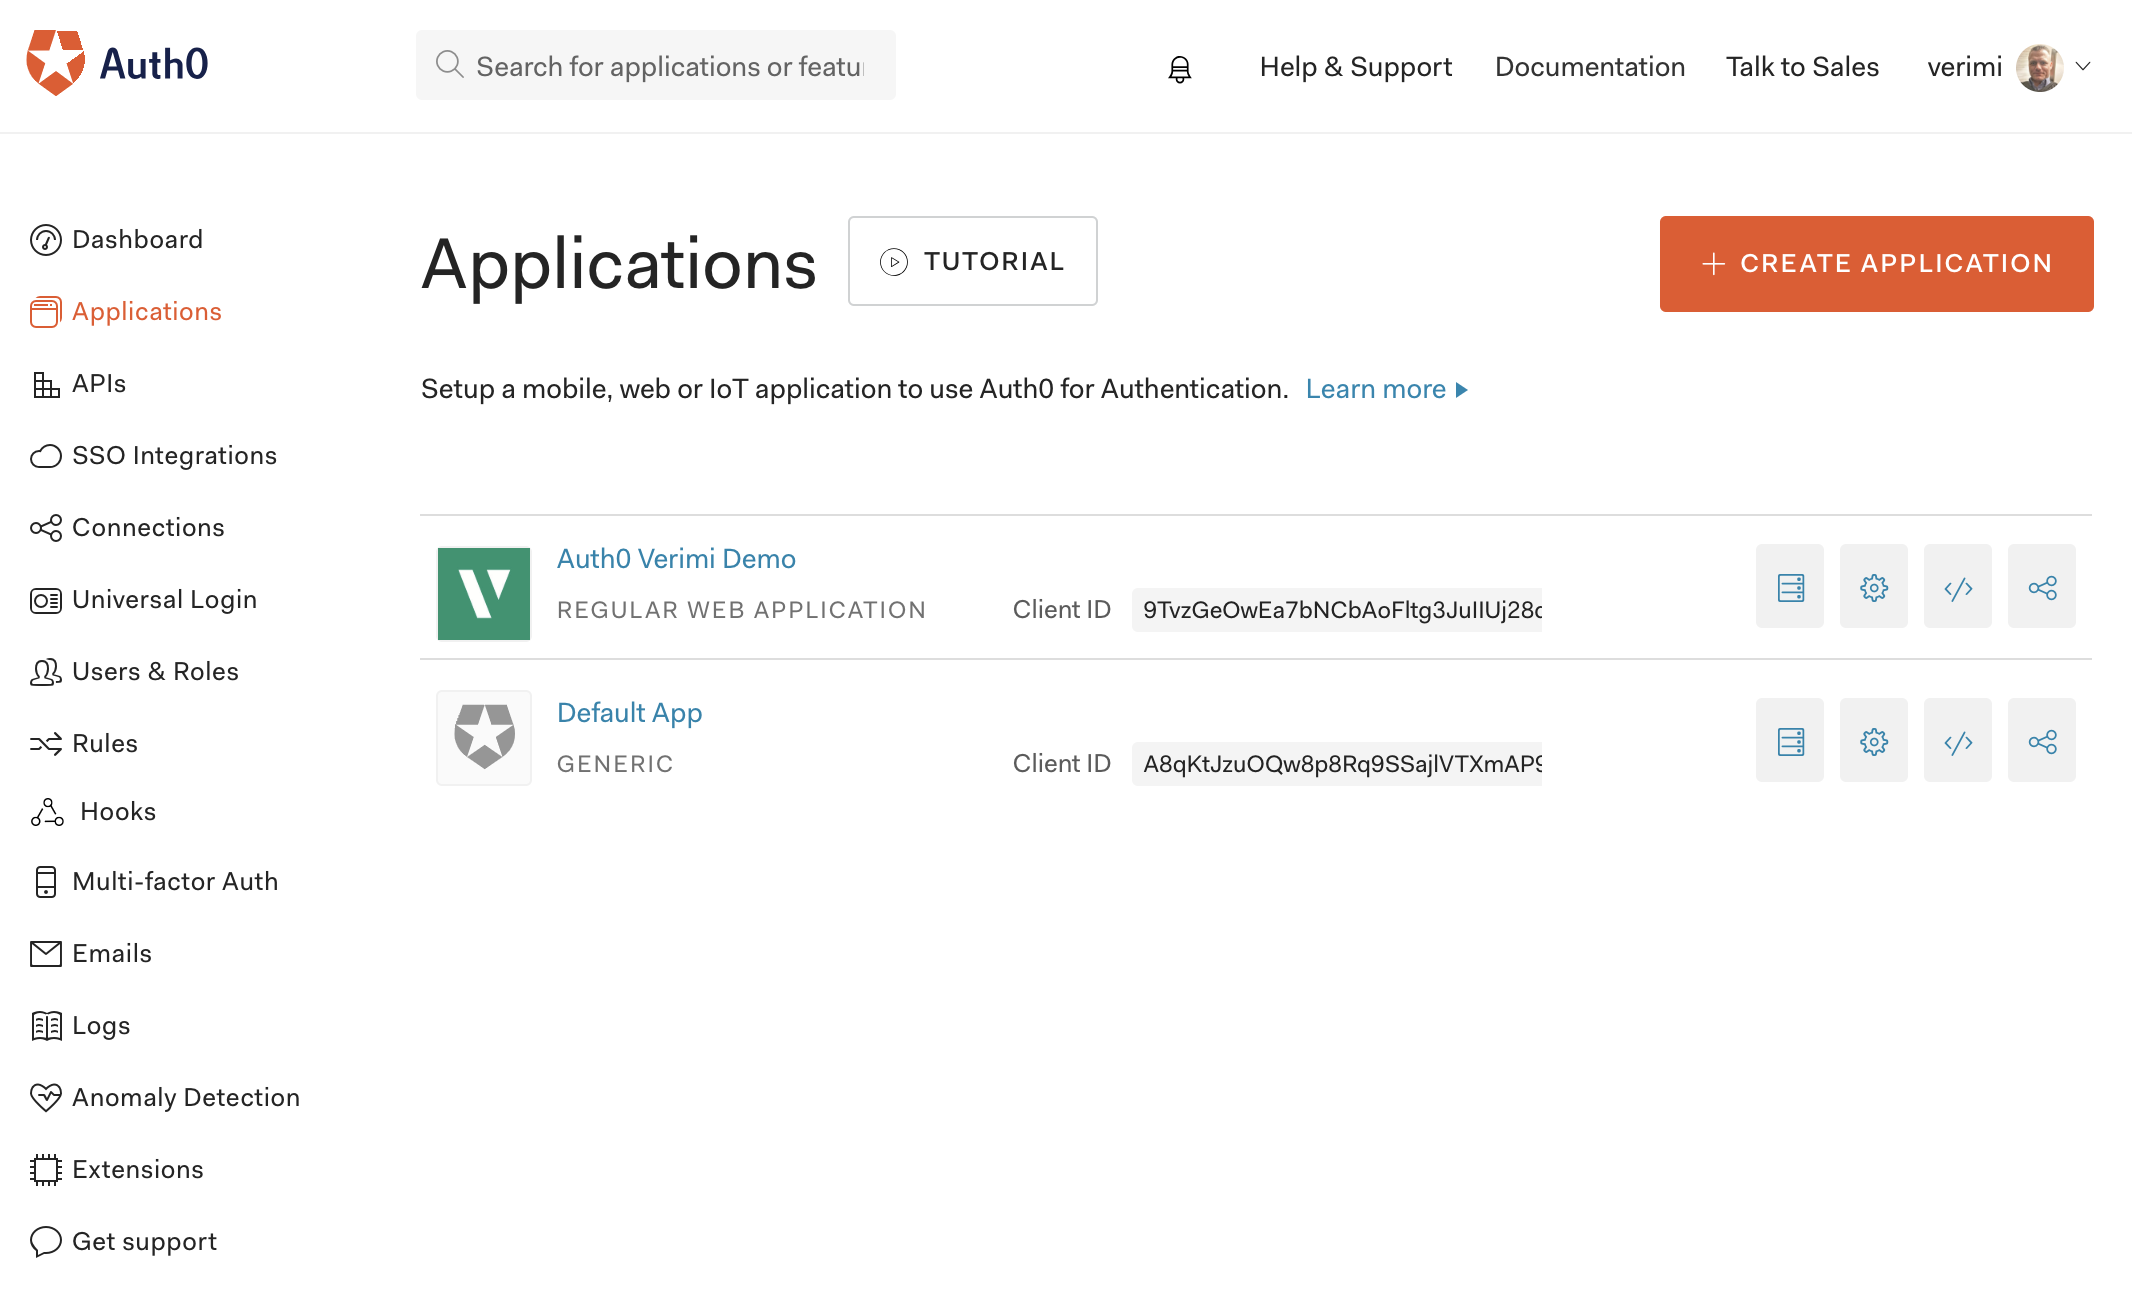
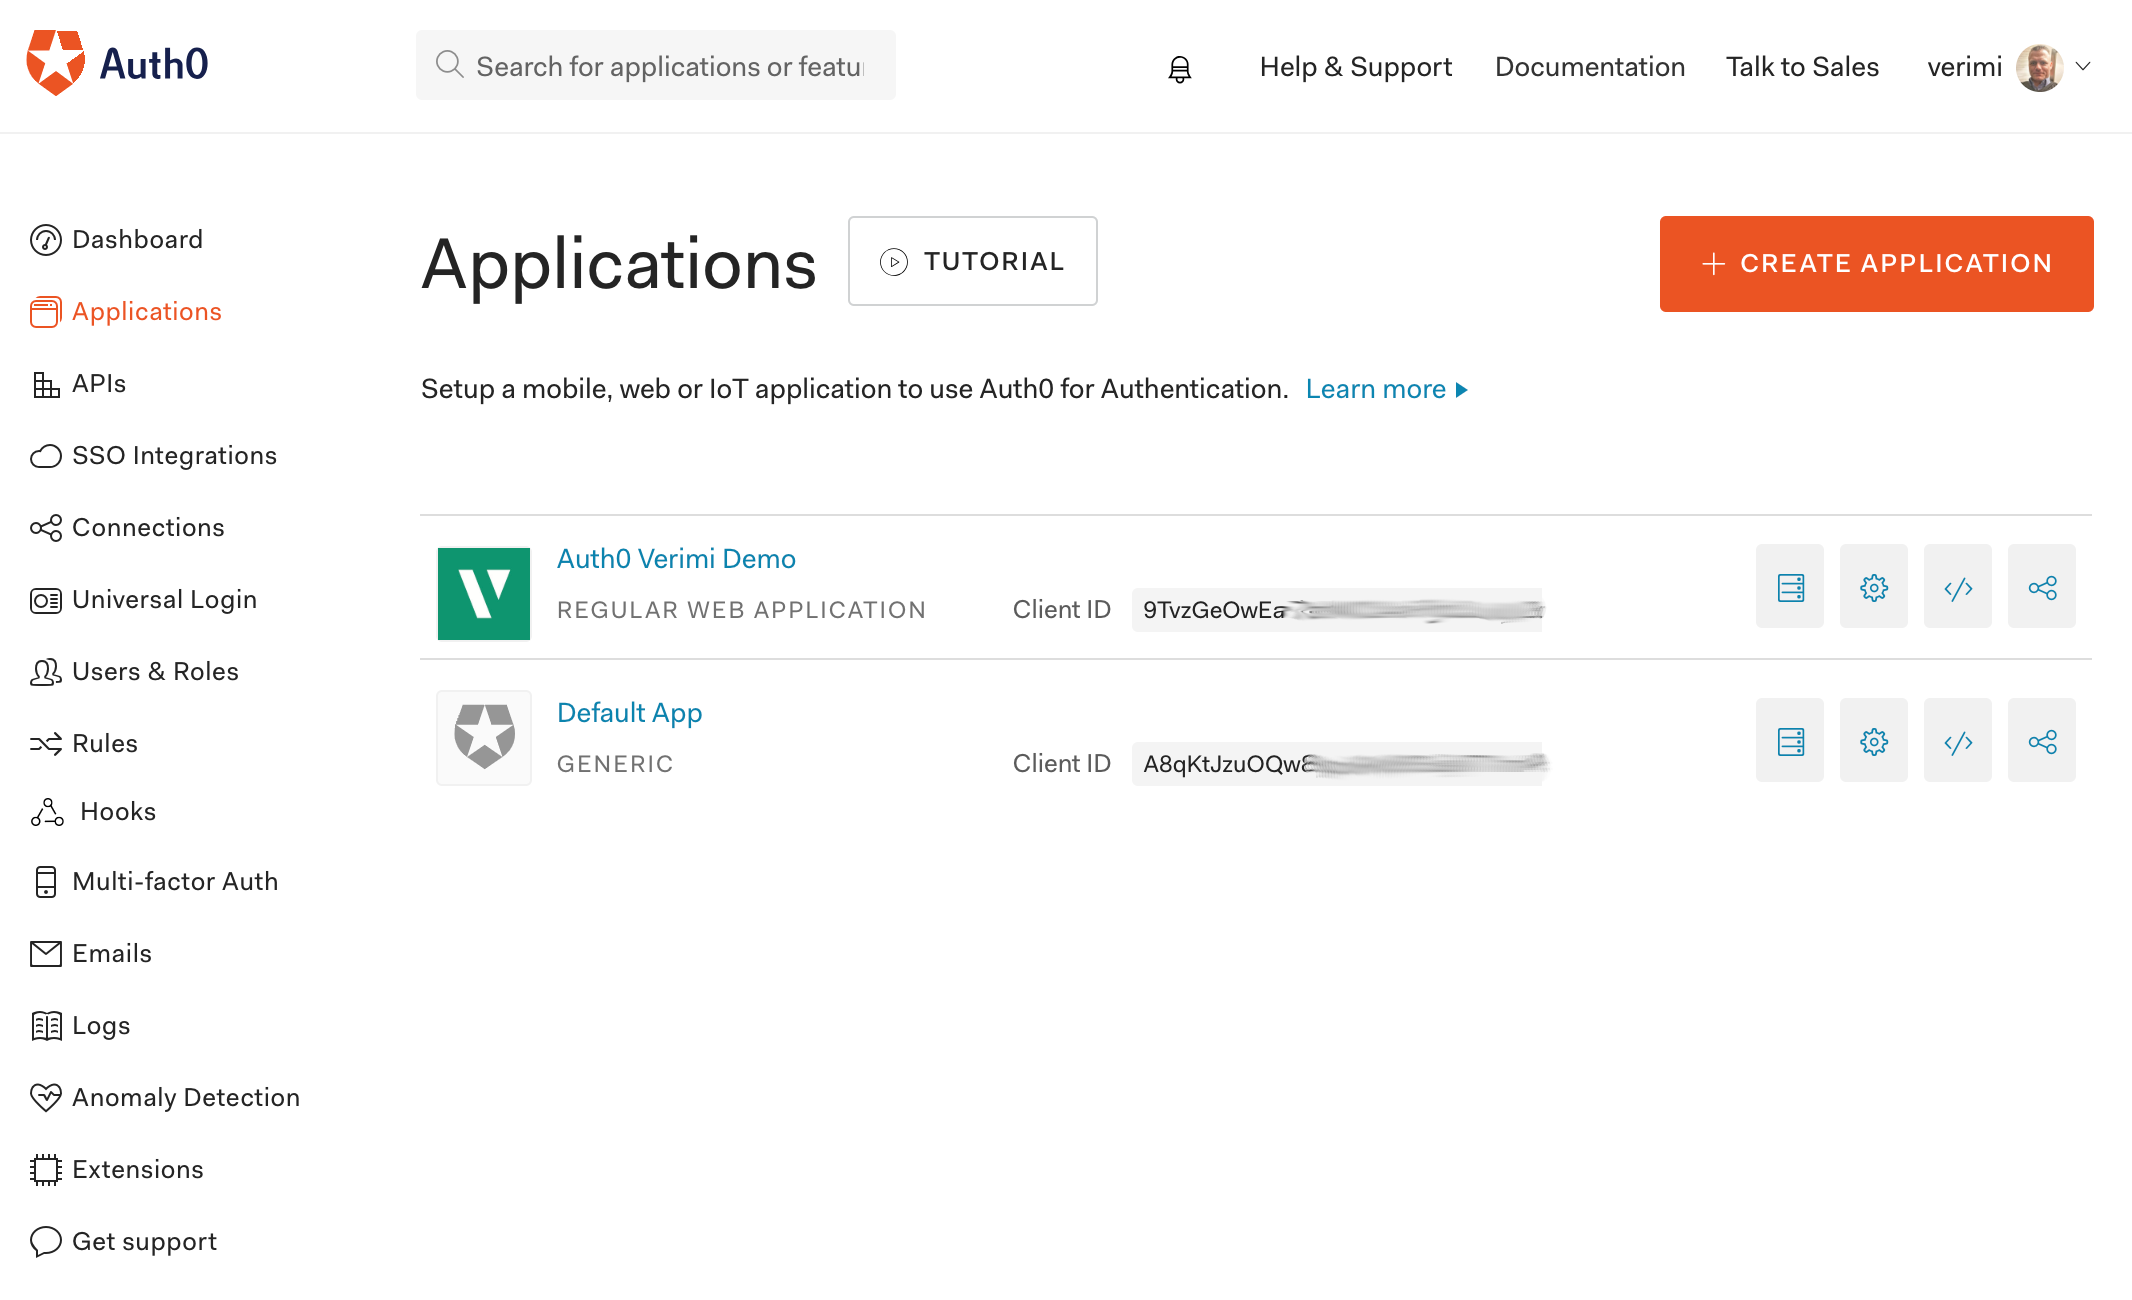
document client app creation process

Changed region(s): [[0.1857, 0.4, 0.2477, 0.4923], [0.6191, 0.5538, 0.743, 0.6154], [0.5882, 0.4615, 0.743, 0.4923]]

diff --git a/README.md b/README.md
@@ -31,6 +31,7 @@ Auth0 is Identity made simple and secure. With Auth0, you take perhaps the riski
 ### Prerequisites
 
 We assume that you already have registered an Auth0 account and setup a tenant. If not, register a free account and tenant at https://auth0.com
+Also, we assume that you already have a client app setup in Auth0. If not, you can refer to the steps and screenshots [further below](#auth0-backend).
 
 Furthermore, we assume that you have already registered a service provider account at Verimi. If not, you can inform yourself about the possibilities here: https://verimi.de/en/partner and contact Verimi by email, referring to Auth0: partner@verimi.com.  
 
@@ -198,9 +199,63 @@ After consent is given, the browser redirects to the application, having receive
 
 ![Placeholder](img/Screen_Shot_2019-04-02_at_10.37.00_AM.png)
 
-### Auth0 Backend
+## Auth0 Backend
 
-In the Auth0 backend, the client application is registered as follows:
+### Client App Creation in Auth0
+
+In our example, we chose a `Single Page Application (SPA)` based on `Angular` delivered from a Node.js web server. You can choose any other technology stack as well though.
+
+In our case, the client application is created and configured as follows in the Auth0 backend:
+
+1. Create the application by going to the `Applications` section in the dashboard and click the `+ Create Application` button.
+
+![Placeholder](img/applications-create.png)
+
+2. Give the application any name you like and choose `Single Page Web Application` as the type.
+
+![Placeholder](img/app-quickstart-1.png)
+
+3. Next, choose `Angular` as the technology.
+
+![Placeholder](img/app-quickstart-2.png)
+
+4. Afterwards, you're given the choice to either integrate Auth0 into an existing app, or download a complete sample. Choose the latter and download the `.zip` file.
+
+![Placeholder](img/app-quickstart-3.png)
+
+5. Download and unzip the `.zip` file anywhere on your computer. Then, enter a local terminal window and switch to the folder where you extracted the project into.
+
+To build and run the project, enter:
+
+`npm install`
+
+followed by
+
+`npm start`
+
+This should spin up a local Node.js web server, making the application available at `http://localhost:3000`.
+
+![Placeholder](img/node.png)
+
+6.
+
+Returning to the Auth0 dashboard, click the `Settings` tab of the app.
+
+In the application settings:
+
+* set `Application Type` to `Single Page Application`.
+* set `Allowed Callback URLs` to `http://localhost:3000/callback`
+* set `Allowed Logout URLs` to `http://localhost:3000`
+
+![Placeholder](img/app-settings.png)
+
+7.
+
+As for the connections, enable any (other) connections that you want enabled besides `Verimi`. Note that custom social connection don't show in this screen, they are configured and within the `Custom Social Connection` extension itself. In our example, we chose to also offer authentication via `Username-Password-Authentication`, `facebook` and `google-oauth2`, besides `Verimi`, thus the respective switches are enabled.
+
+![Placeholder](img/app-connections.png)
+
+In the end, the application is listed in the `Applications` overview:
 
 ![Placeholder](img/Screen_Shot_2019-04-02_at_10.20.09_AM.png)
 
@@ -219,7 +274,7 @@ The user's primary identity provider is shown as `oauth2`...
 ![Placeholder](img/Screen_Shot_2019-04-02_at_10.22.01_AM.png)
 
 
-### Verimi Backend
+## Verimi Backend
 
 After logging into the Verimi backend as a user, you see the dashboard...
 
